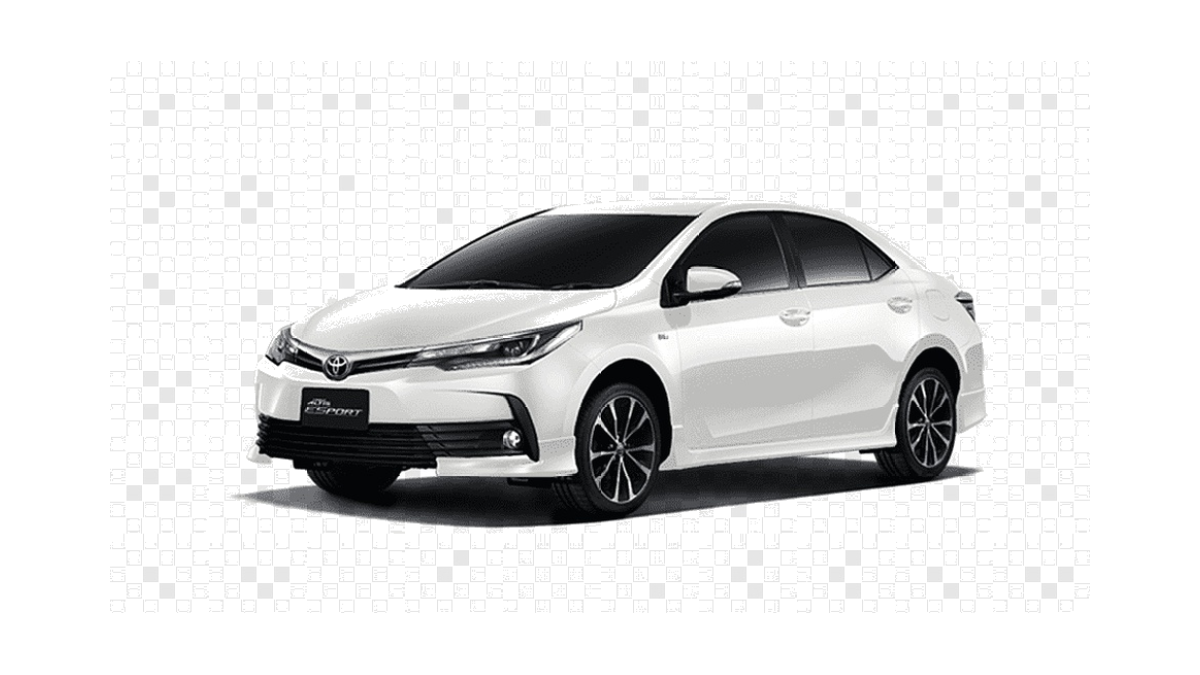
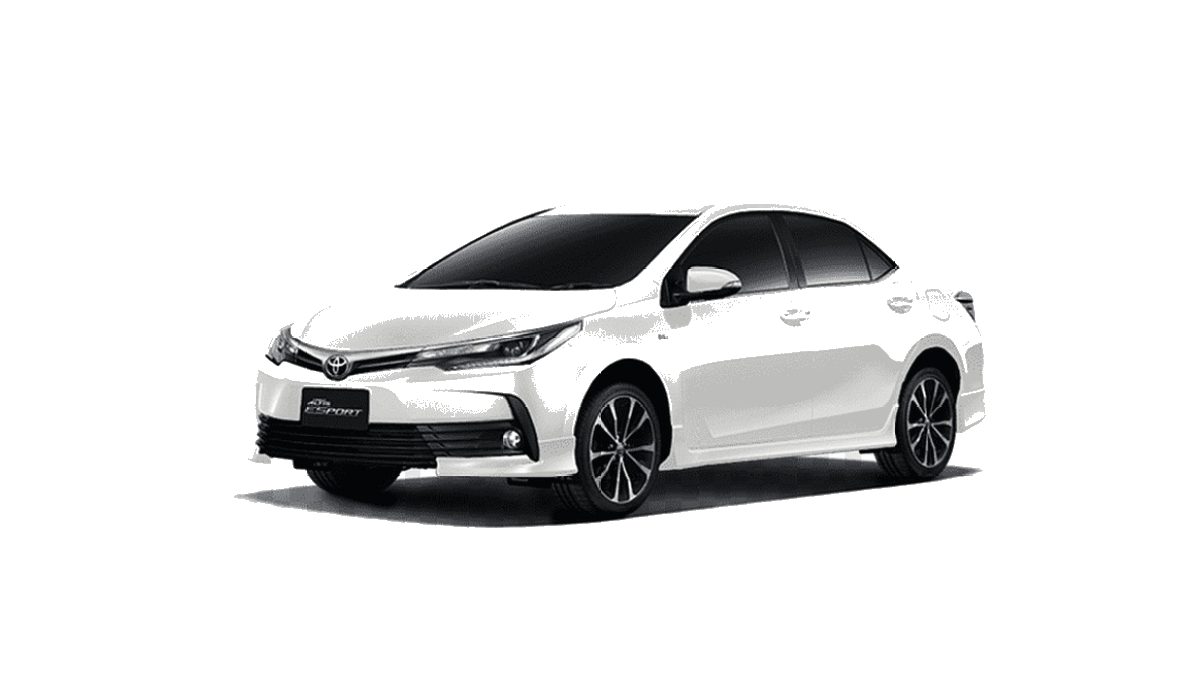
Fix fleet images: broken PNG refs, ruined BYD Shark, checkerboard backgrounds
- Point tank-300, revo, and grande-altis cards at their actual .png files
- Rebuild byd-shark.jpg from clean shark.png source on white studio canvas
- Remove fake-transparency checkerboards from Fortuner and Grande Altis

diff --git a/index.html b/index.html
@@ -794,7 +794,7 @@ tailwind.config = {
      feats:['DMO Hybrid Platform','V2L power outlet','360° camera','Panoramic sunroof','Wi-Fi']},
 
     {name:'Tank 300 (GWM)', brand:'GWM', cls:'Premium Off-Road SUV', cats:['suv','luxury'],
-     img:'images/tank-300.jpg',
+     img:'images/tank-300.png',
      desc:'Rugged where it counts, refined where you sit. Locking differentials and serious ground clearance make it our pick for Skardu, Deosai and the harder northern routes.',
      specs:{Seating:'5 Guests',Luggage:'4 Bags',Drive:'4WD'},
      feats:['Tank turn','Hill descent','Off-road modes','Heated seats','Sunroof']},
@@ -812,7 +812,7 @@ tailwind.config = {
      feats:['Sunroof','Leather interior','Rear AC vents','Reverse camera','Wi-Fi']},
 
     {name:'Toyota Revo', brand:'Toyota', cls:'Double-Cabin 4x4', cats:['suv'],
-     img:'images/revo.jpg',
+     img:'images/revo.png',
      desc:'Tough, dependable and built for the routes that punish other vehicles. Ideal for site visits, survey teams and adventure groups with gear to carry.',
      specs:{Seating:'5 Guests',Luggage:'Open deck',Drive:'4x4'},
      feats:['Hill assist','Cargo deck','Rugged suspension','Reverse camera','Roof rails']},
@@ -830,7 +830,7 @@ tailwind.config = {
      feats:['Climate control','Leather seats','Cruise control','Sunroof','Wi-Fi']},
 
     {name:'Toyota Grande / Altis', brand:'Toyota', cls:'Business Sedan', cats:['sedan'],
-     img:'images/grande-altis.jpg',
+     img:'images/grande-altis.png',
      desc:'The dependable workhorse of Pakistani executive travel. Comfortable, economical and immaculately maintained, perfect for monthly corporate contracts.',
      specs:{Seating:'4 Guests',Luggage:'3 Bags',Type:'Sedan'},
      feats:['Climate control','Push start','Cruise control','Reverse camera','Wi-Fi']},